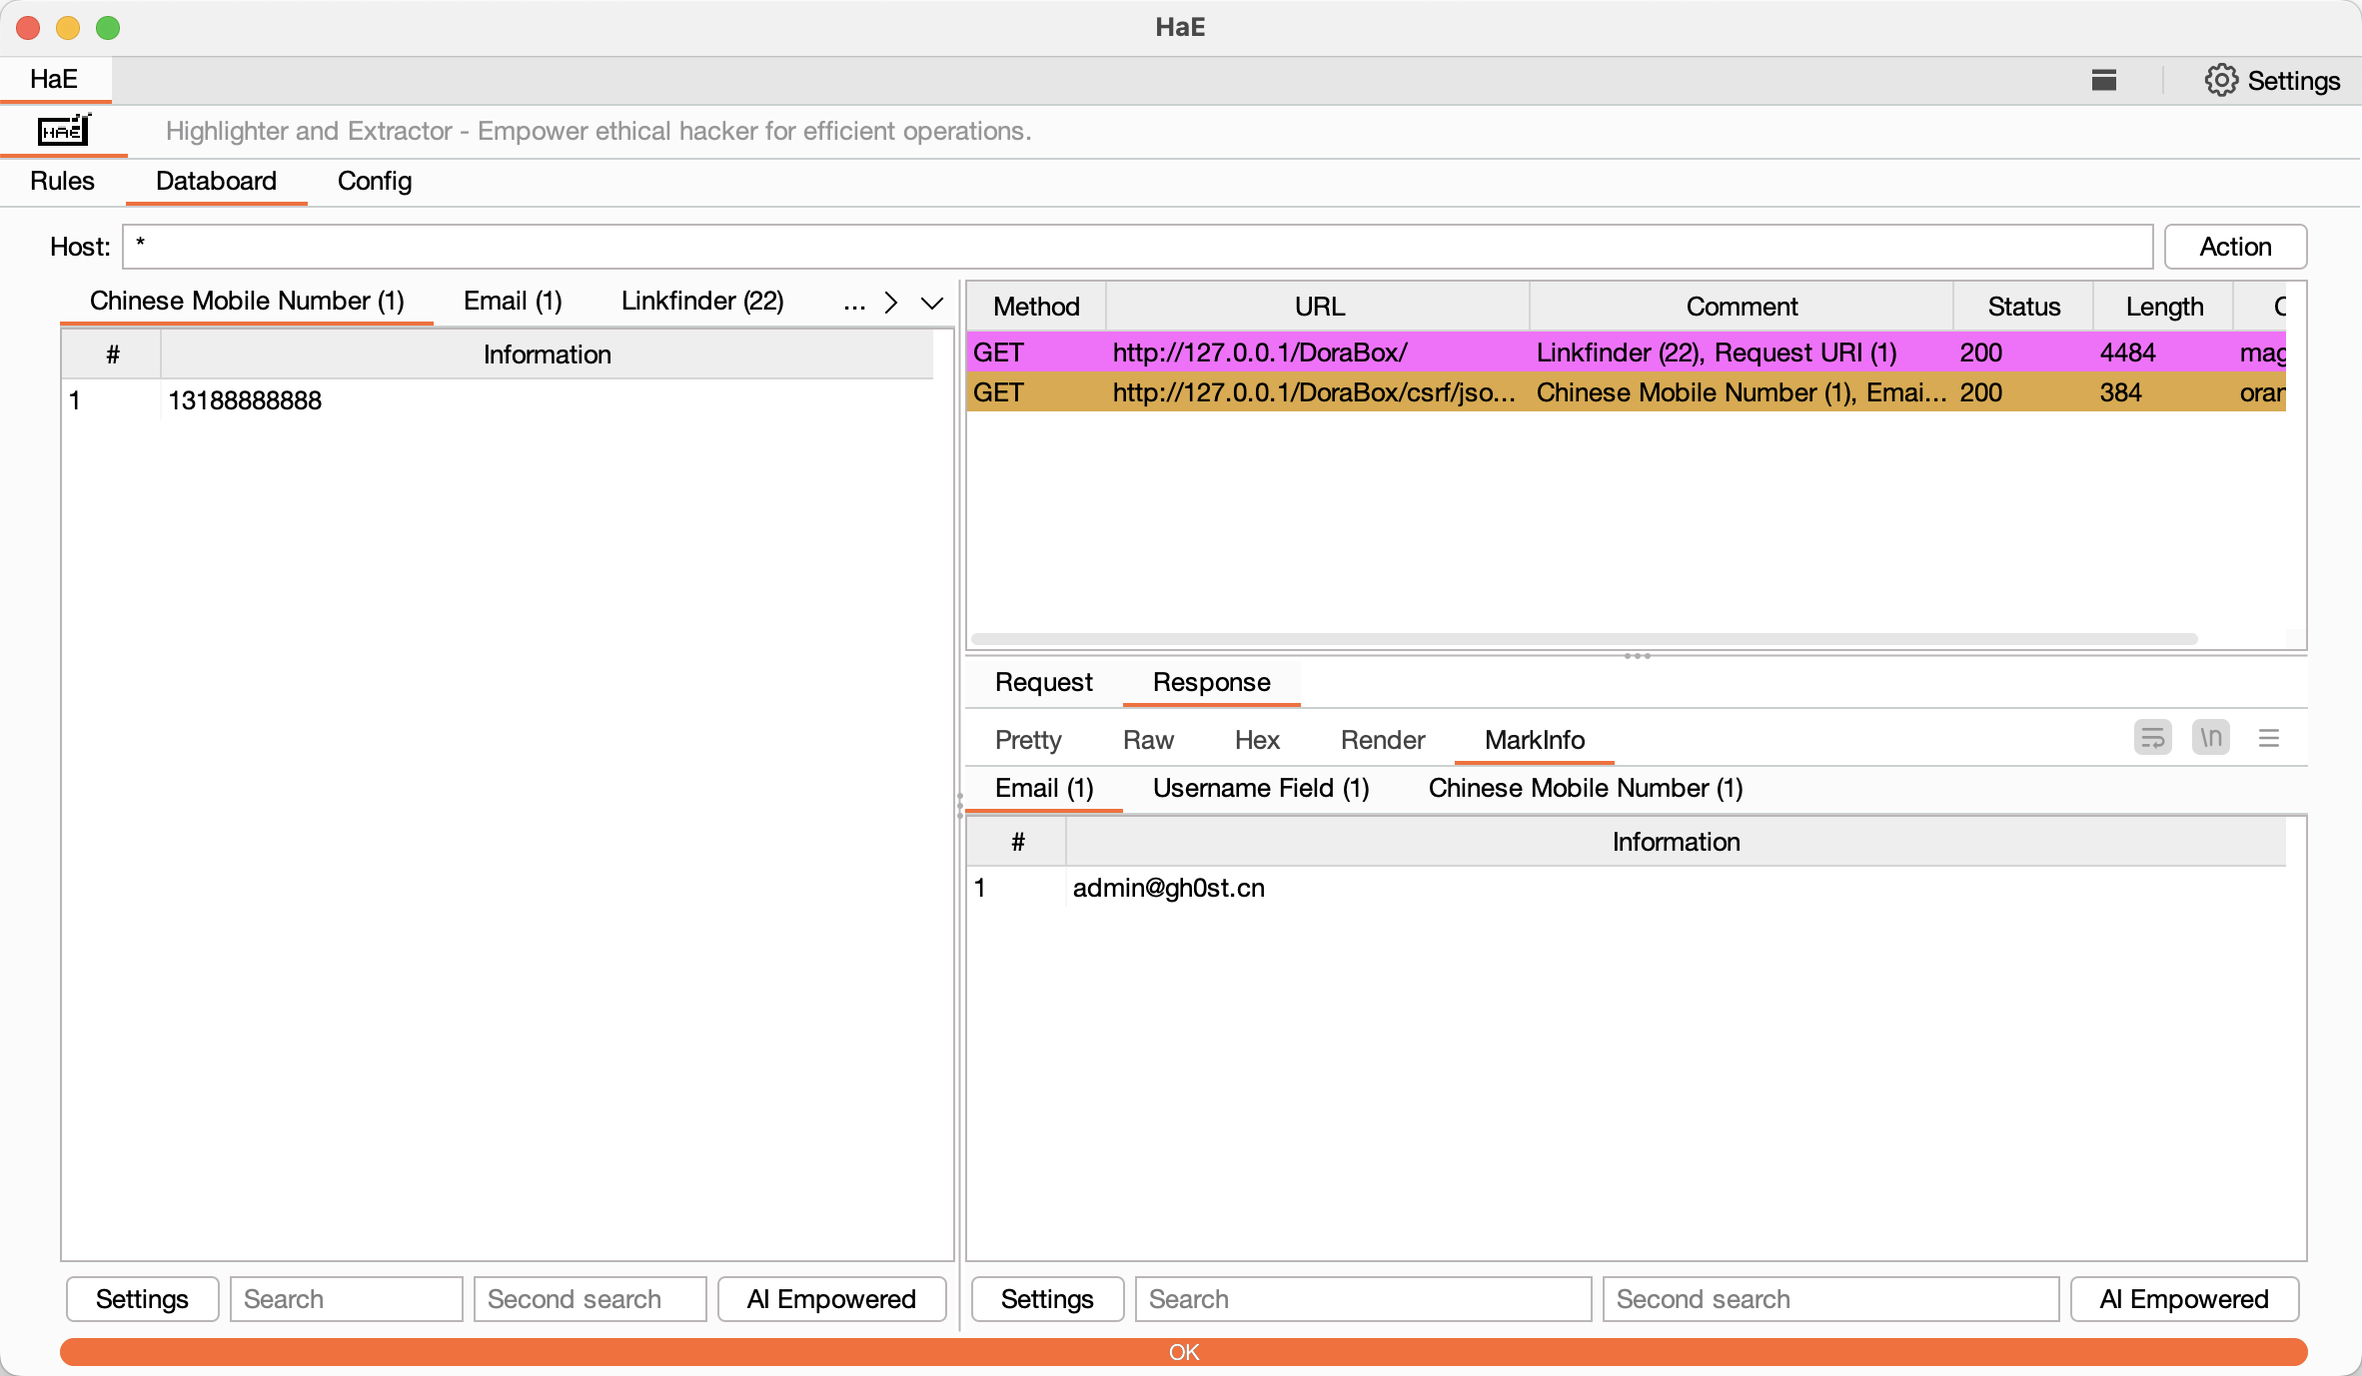
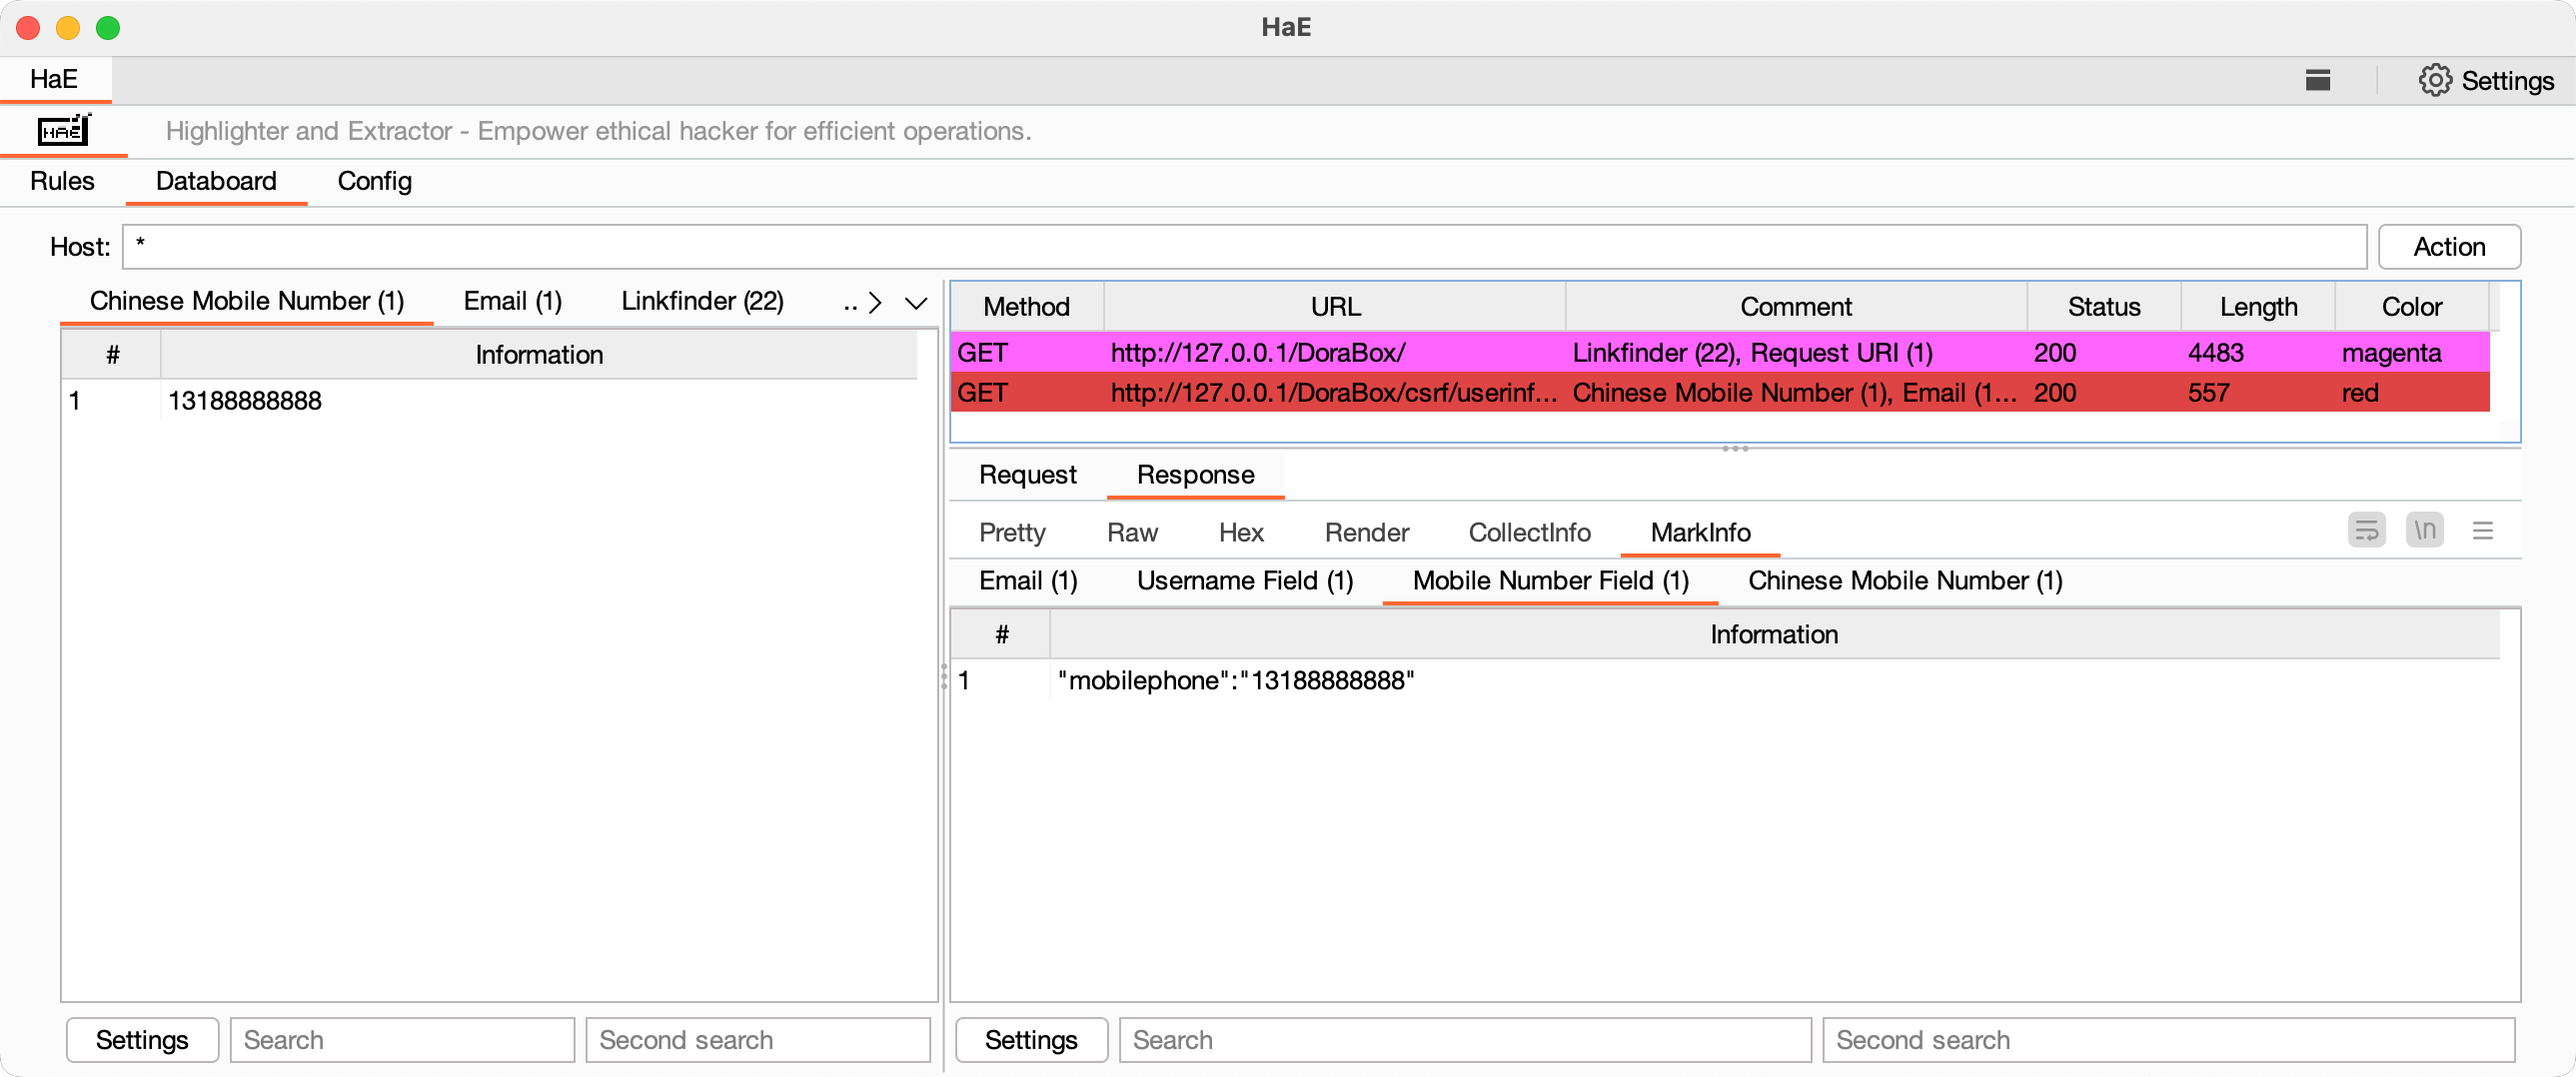
Update

diff --git a/README.md b/README.md
@@ -6,7 +6,7 @@
 
 ## 项目介绍
 
-**HaE**是一款**网络安全（数据安全）领域**下的框架式项目，采用了**乐高积木式**模块化设计理念，巧妙地融入了**人工智能大模型辅助技术**，实现对HTTP消息（包含WebSocket）精细化的标记和提取。
+**HaE**是一款**网络安全（数据安全）领域**下的框架式项目，采用了**乐高积木式**模块化设计理念，实现对HTTP消息（包含WebSocket）精细化的标记和提取。
 
 通过运用**多引擎**的自定义正则表达式，HaE能够准确匹配并处理HTTP请求与响应报文（包含WebSocket），对匹配成功的内容进行有效的标记和信息抽取，从而提升网络安全（数据安全）领域下的**漏洞和数据分析效率**。
 
@@ -23,17 +23,17 @@ GitCode项目地址：https://gitcode.com/gh0stkey/HaE
 
 **注意事项**:
 
-1. HaE 3.3版本开启了AI+新功能，该功能目前仅支持阿里的`Qwen-Long`模型（支持超长文本）和月之暗面的`moonshot-v1-128k`模型（支持短文本），请配置和使用时注意。
-2. HaE 3.0版本开始采用`Montoya API`进行开发，使用新版HaE需要升级你的BurpSuite版本（>=2023.12.1）。
-3. HaE 2.6版本后对规则字段进行了更新，因此无法适配<=2.6版本的规则，请用户自行前往[规则转换页面](https://gh0st.cn/HaE/ConversionRule.html)进行转换。
-4. HaE官方规则库存放在[Github](https://raw.githubusercontent.com/gh0stkey/HaE/gh-pages/Rules.yml)上，因此点击`Update`升级HaE官方规则库时需使用代理（BApp审核考虑安全性，不允许使用CDN）。
-5. 自定义HaE规则必须用左右括号`()`将所需提取的表达式内容包含，例如你要匹配一个**Shiro应用**的响应报文，正常匹配规则为`rememberMe=delete`，在HaE的规则中就需要变成`(rememberMe=delete)`。
+1. HaE 3.0版本开始采用`Montoya API`进行开发，使用新版HaE需要升级你的BurpSuite版本（>=2023.12.1）。
+2. HaE 2.6版本后对规则字段进行了更新，因此无法适配<=2.6版本的规则，请用户自行前往[规则转换页面](https://gh0st.cn/HaE/ConversionRule.html)进行转换。
+3. 自定义HaE规则必须用左右括号`()`将所需提取的表达式内容包含，例如你要匹配一个**Shiro应用**的响应报文，正常匹配规则为`rememberMe=delete`，在HaE的规则中就需要变成`(rememberMe=delete)`。
 
 ## 使用方法
 
 插件装载: `Extender - Extensions - Add - Select File - Next`
 
-初次装载`HaE`会从Jar包中加载离线的规则库，如果更新的话则会向官方规则库地址拉取`https://raw.githubusercontent.com/gh0stkey/HaE/gh-pages/Rules.yml`，配置文件（`Config.yml`）和规则文件（`Rules.yml`）会放在固定目录下：
+初次装载`HaE`会从Jar包中加载离线的规则库，如果更新可以点击`Reinit`进行重新初始化。内置规则库地址可以在Github上找到：`https://github.com/gh0stkey/HaE/blob/master/src/main/resources/rules/Rules.yml`。
+
+配置文件（`Config.yml`）和规则文件（`Rules.yml`）会放在固定目录下：
 
 1. Linux/Mac用户的配置文件目录：`~/.config/HaE/`
 2. Windows用户的配置文件目录：`%USERPROFILE%/.config/HaE/`
@@ -55,22 +55,19 @@ HaE目前的规则一共有8个字段，详细的含义如下所示：
 | Color     | 规则匹配颜色，主要用于表示当前规则匹配到对应HTTP报文时所需标记的高亮颜色。在HaE中具备颜色升级算法，当出现相同颜色时会自动向上升级一个颜色进行标记。                                                                                                                               |
 | Sensitive | 规则敏感性，主要用于表示当前规则对于大小写字母是否敏感，敏感（`True`）则严格按照大小写要求匹配，不敏感（`False`）则反之。                                                                                      |
 
-
 ## 优势特点
 
 1. **功能**：通过对HTTP报文的颜色高亮、注释和提取，帮助使用者获取有意义的信息，**聚焦高价值报文**。
 2. **界面**：清晰可视的界面设计，以及**简洁的界面交互**，帮助使用者更轻松的了解和配置项目，**避免`多按钮`式的复杂体验**。
 3. **查询**：将HTTP报文的高亮、注释和提取到的相关信息**集中在一个数据面板**，可以一键查询、提取信息，从而提高测试和梳理效率。
 4. **算法**：内置高亮颜色的升级算法，当出现相同颜色时**会自动向上升级一个颜色**进行标记，**避免`屠龙者终成恶龙`场景**。
-5. **管理**：支持对数据的一键导出、导入，以**自定义`.hae`文件的方式**进行项目数据存储，**便于存储和共享项目数据**。
+5. **管理**：**融入BurpSuite的项目数据管理**，当使用BurpSuite进行项目存储时HaE数据也会一并存储。
 6. **实战**：官方规则库和规则字段作用功能，都是**基于实战化场景总结输出**的，**以此提高数据的有效性、精准性发现**。
-7. **智能**：融入**人工智能（AI）大模型**API，对匹配的数据进行优化处理，**提高数据式漏洞挖掘效率**。
 
 | 界面名称                  | 界面展示                                              |
 | ------------------------ | ---------------------------------------------------- |
 | Rules（规则管理）     | <img src="images/rules.png" style="width: 80%" />     |
-| Config-Setting（Setting配置管理）    | <img src="images/config-setting.png" style="width: 80%" />    |
-| Config-AI+（AI+配置管理）    | <img src="images/config-ai.png" style="width: 80%" />    |
+| Config（配置管理）    | <img src="images/config.png" style="width: 80%" />    |
 | Databoard（数据集合） | <img src="images/databoard.png" style="width: 80%" /> |
 | MarkInfo（数据展示） | <img src="images/markinfo.png" style="width: 80%" /> |
 
